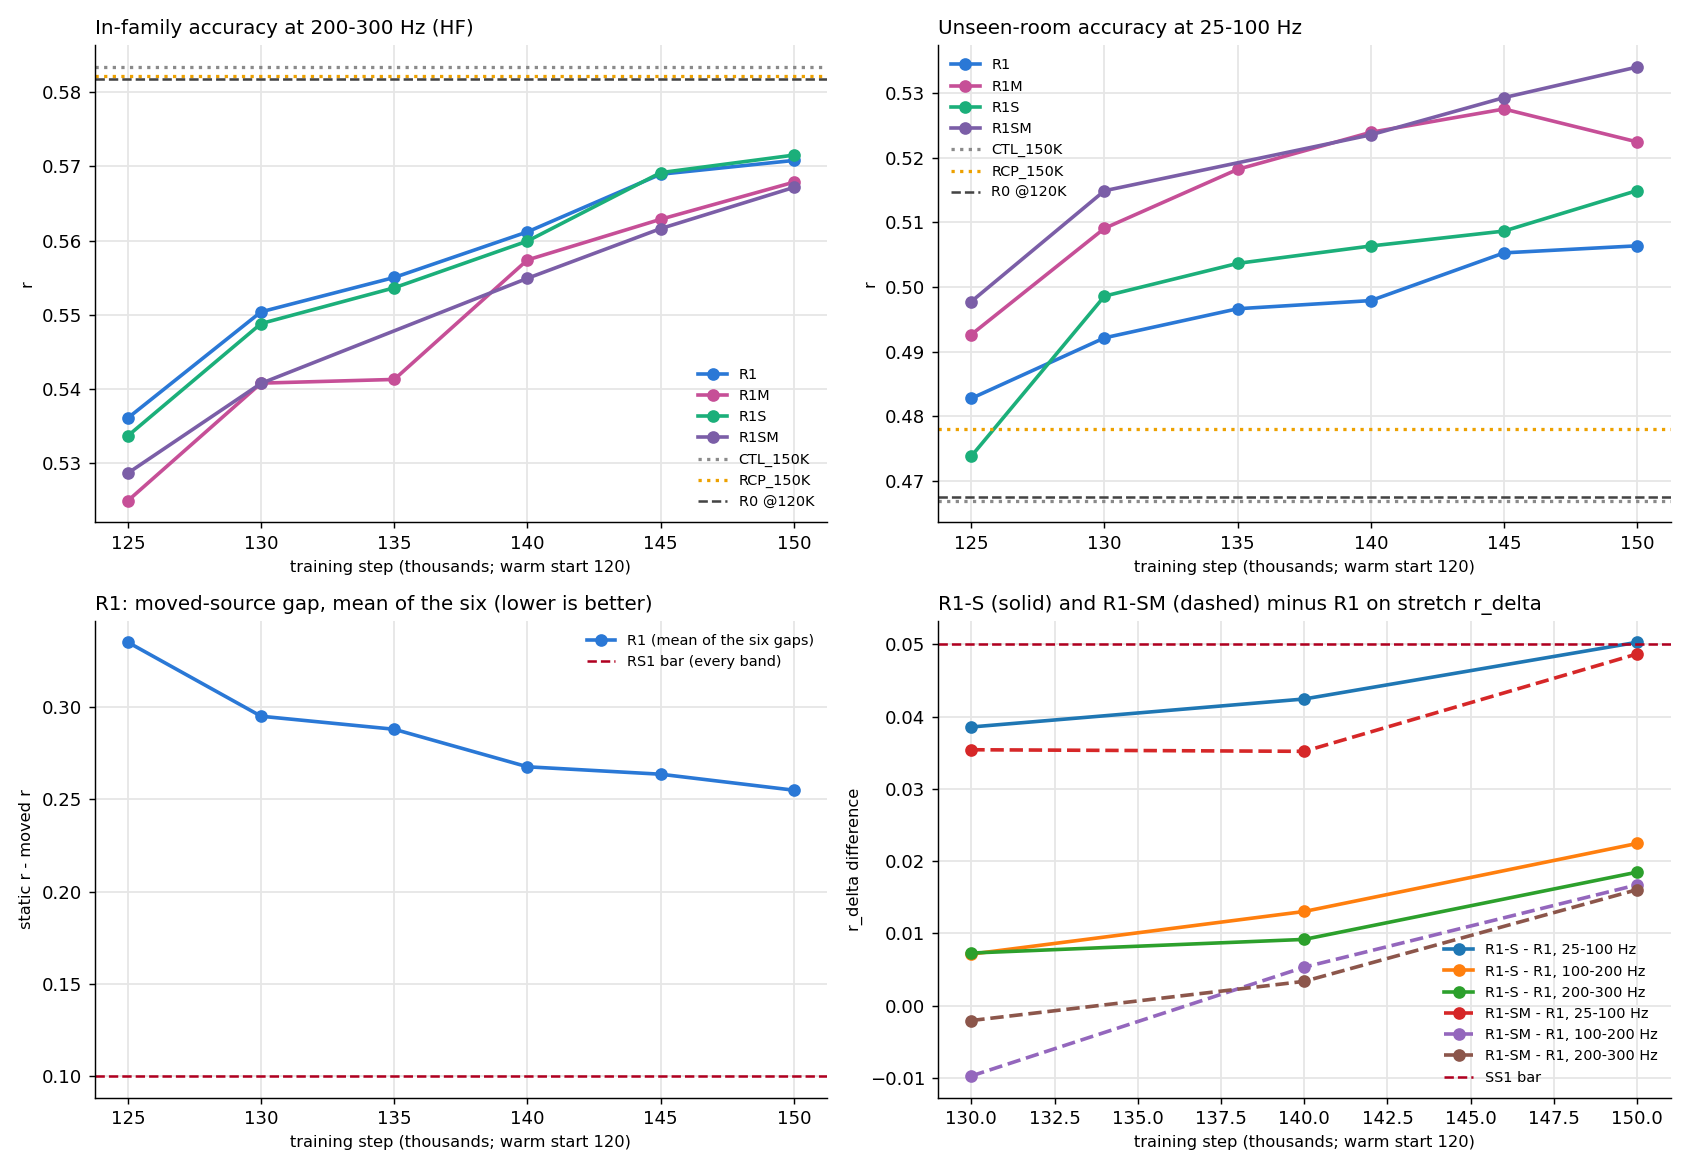
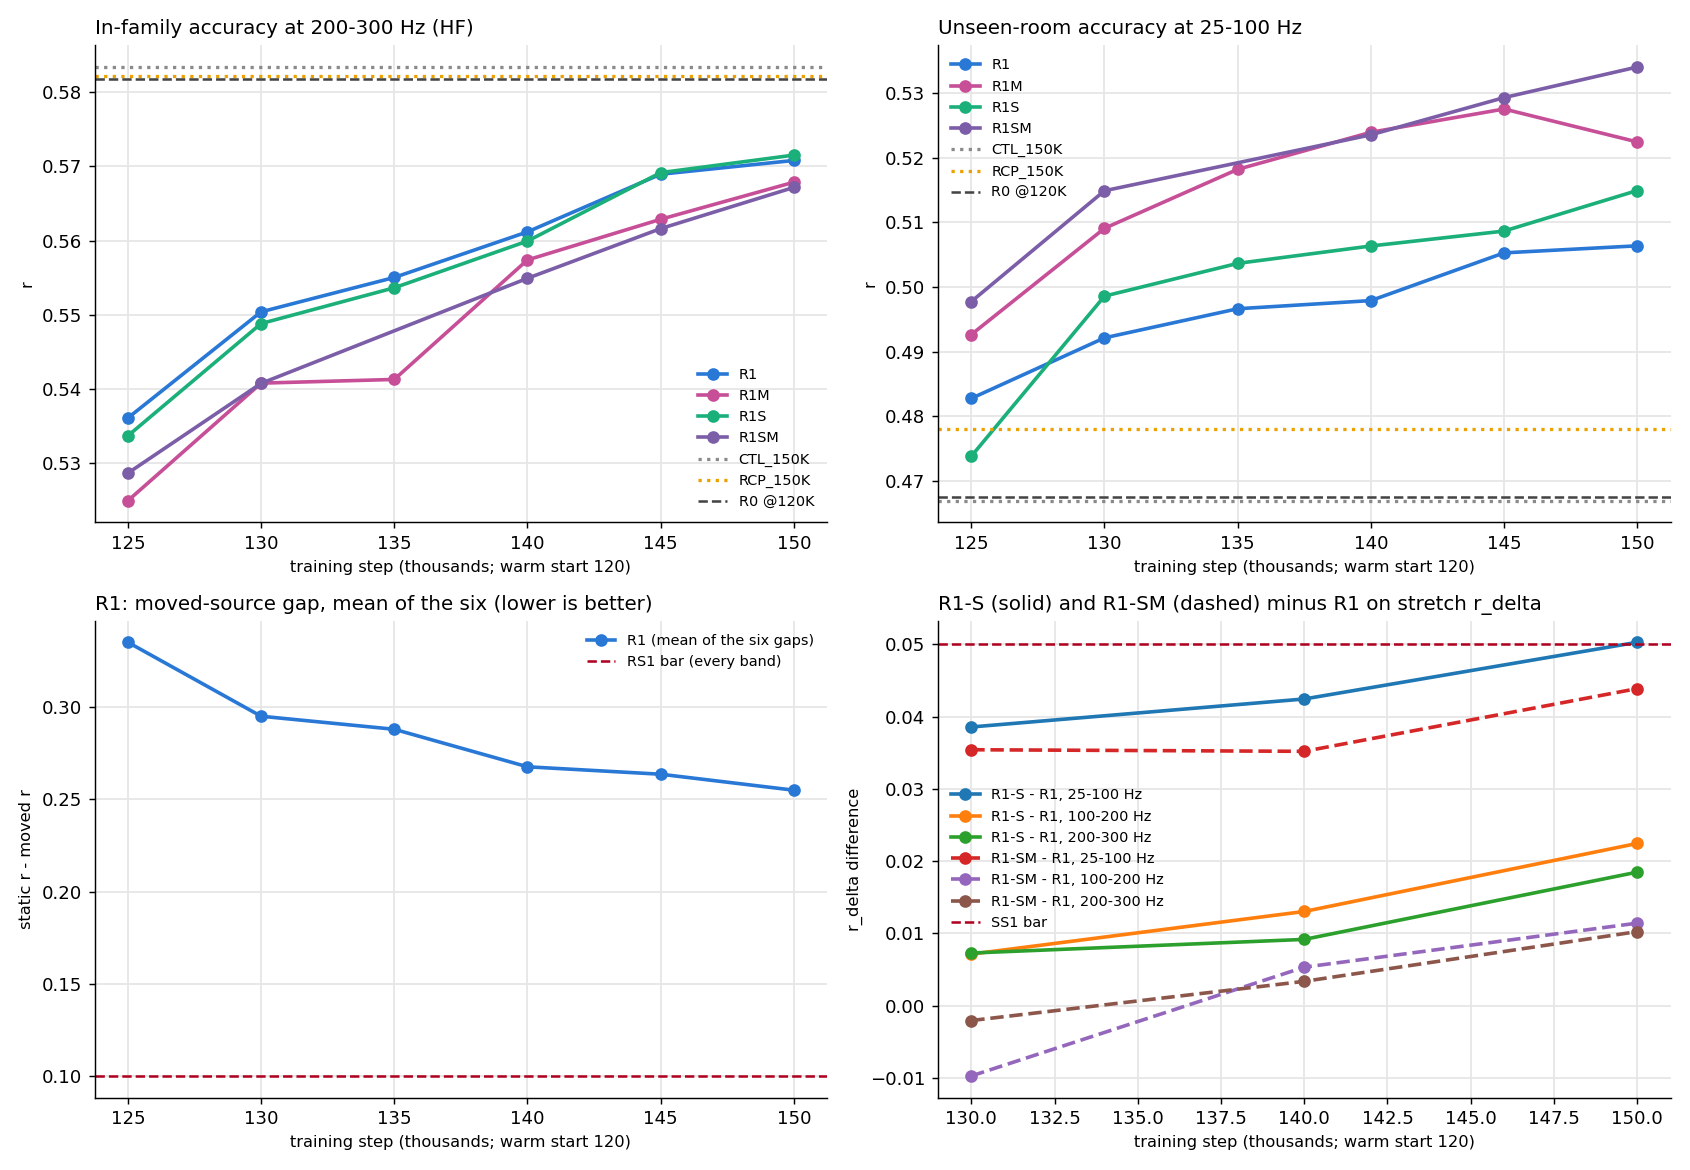
P4-10 automatic publish: results on disk while the session was silent (MEETING_PACK built without review)

diff --git a/outputs/p4_10/progress/board.md b/outputs/p4_10/progress/board.md
@@ -1,10 +1,10 @@
 # P4-10 progress board
 
-Built 2026-11-24 16:43 (from JSON on disk; every read is a scored checkpoint).
+Built 2026-11-24 16:52 (from JSON on disk; every read is a scored checkpoint).
 
 **Next reads (from each arm's training log):** none running
 
-**Running jobs:** aaf_autopub x1, aaf_ss_R1SM_150K x7
+**Running jobs:** aaf_autopub x1
 
 ## R1 -- in-family moved-source gap, band mean, second and third source (bar: each band <= 0.10)
 
@@ -132,7 +132,7 @@ MM1 (re-registered D201 / D202): EDT edit slope on Material lite cells (bar: slo
 | R1SM_145K | in-family | 0.54 | 0.82 | 48 | 0.09 | 19% / 26% (-6.7) | 0 cells-bands; 116866 of 146689 rx-bands (T20 floor) |
 | R1SM_145K | unseen | 0.72 | 0.82 | 48 | 0.22 | 27% / 31% (-4.3) | 0 cells-bands; 97750 of 129438 rx-bands (T20 floor) |
 | R1SM_150K | in-family | 0.63 | 0.86 | 48 | 0.49 | 20% / 25% (-4.8) | 0 cells-bands; 115351 of 146689 rx-bands (T20 floor) |
-| R1SM_150K | unseen | 0.85 | 0.87 | 42 | -0.08 | 26% / 30% (-3.9) | 0 cells-bands; 84780 of 115052 rx-bands (T20 floor) |
+| R1SM_150K | unseen | 0.78 | 0.83 | 48 | 0.13 | 27% / 30% (-3.2) | 0 cells-bands; 95614 of 129438 rx-bands (T20 floor) |
 
 Stretch r_delta (lite cells; paired vs R1 at the same step):
 
@@ -142,7 +142,7 @@ Stretch r_delta (lite cells; paired vs R1 at the same step):
 | R1SM_130K | unseen | 0.375 / 0.293 / 0.218 | 0.338 / 0.266 / 0.211 | +0.037 [+0.027, +0.050] / +0.028 [+0.015, +0.037] / +0.006 [-0.012, +0.020] |
 | R1SM_140K | test | 0.806 / 0.544 / 0.347 | 0.771 / 0.538 / 0.344 | +0.035 [+0.009, +0.062] / +0.005 [-0.010, +0.021] / +0.003 [-0.006, +0.012] |
 | R1SM_140K | unseen | 0.391 / 0.286 / 0.226 | 0.353 / 0.269 / 0.213 | +0.038 [+0.032, +0.046] / +0.017 [+0.004, +0.032] / +0.014 [-0.005, +0.027] |
-| R1SM_150K | test | 0.820 / 0.565 / 0.366 | 0.772 / 0.548 / 0.350 | +0.049 [+0.016, +0.085] / +0.017 [-0.002, +0.038] / +0.016 [+0.005, +0.031] |
+| R1SM_150K | test | 0.815 / 0.560 / 0.360 | 0.772 / 0.548 / 0.350 | +0.044 [+0.014, +0.076] / +0.011 [-0.003, +0.025] / +0.010 [+0.004, +0.017] |
 | R1SM_150K | unseen | 0.399 / 0.305 / 0.236 | 0.361 / 0.269 / 0.212 | +0.038 [+0.027, +0.050] / +0.036 [+0.026, +0.046] / +0.024 [+0.008, +0.040] |
 
 Moved-source gap = static r on the original room - r at the moved source (in-family lite rooms; lower is better). Bar: <= 0.10 in every band.
@@ -174,17 +174,17 @@ Moved-source gap = static r on the original room - r at the moved source (in-fam
 | StretchA | R1_150K | 8 | 0.818 / 0.590 / 0.484 | 0.737 / 0.518 / 0.307 |
 | StretchA | R1M_150K | 8 | 0.820 / 0.588 / 0.493 | 0.734 / 0.500 / 0.302 |
 | StretchA | R1S_150K | 8 | 0.874 / 0.614 / 0.522 | 0.788 / 0.535 / 0.319 |
-| StretchA | R1SM_150K | 7 | 0.875 / 0.613 / 0.531 | 0.779 / 0.528 / 0.315 |
+| StretchA | R1SM_150K | 8 | 0.872 / 0.608 / 0.524 | 0.779 / 0.523 / 0.308 |
 | StretchA | R0_120K | 8 | 0.819 / 0.595 / 0.488 | 0.756 / 0.530 / 0.323 |
 | Wall | R1_150K | 8 | 0.899 / 0.645 / 0.548 | 0.719 / 0.472 / 0.434 |
 | Wall | R1M_150K | 8 | 0.895 / 0.638 / 0.550 | 0.709 / 0.460 / 0.431 |
 | Wall | R1S_150K | 8 | 0.900 / 0.644 / 0.557 | 0.722 / 0.473 / 0.443 |
-| Wall | R1SM_150K | 6 | 0.892 / 0.647 / 0.557 | 0.702 / 0.466 / 0.437 |
+| Wall | R1SM_150K | 8 | 0.897 / 0.641 / 0.555 | 0.712 / 0.463 / 0.435 |
 | Wall | R0_120K | 8 | 0.909 / 0.655 / 0.555 | 0.748 / 0.485 / 0.448 |
 | Notch | R1_150K | 8 | 0.905 / 0.662 / 0.550 | 0.570 / 0.285 / 0.180 |
 | Notch | R1M_150K | 8 | 0.900 / 0.657 / 0.550 | 0.551 / 0.277 / 0.181 |
 | Notch | R1S_150K | 8 | 0.904 / 0.661 / 0.552 | 0.570 / 0.283 / 0.183 |
-| Notch | R1SM_150K | 8 | 0.898 / 0.654 / 0.546 | 0.554 / 0.273 / 0.158 |
+| Notch | R1SM_150K | 8 | 0.899 / 0.656 / 0.549 | 0.556 / 0.279 / 0.178 |
 | Notch | R0_120K | 8 | 0.914 / 0.678 / 0.559 | 0.588 / 0.299 / 0.188 |
 | Source | R1_150K | 8 | 0.752 / 0.370 / 0.257 | 0.782 / 0.505 / 0.396 |
 | Source | R1M_150K | 8 | 0.740 / 0.375 / 0.273 | 0.769 / 0.504 / 0.404 |

diff --git a/outputs/p4_10/meeting/MEETING_PACK.md b/outputs/p4_10/meeting/MEETING_PACK.md
@@ -1,4 +1,4 @@
-# MEETING PACK (built 2026-11-24 16:43 ET)
+# MEETING PACK (built 2026-11-24 16:52 ET)
 
 Meeting 2026-11-24 about 16:00 ET. Every number is read from a JSON file at build time. Triples are 25-100 / 100-200 / 200-300 Hz; r is the off-lattice accuracy from the frozen scorer. **This copy was built automatically by a Slurm job and has not been reviewed by the agent.**
 
